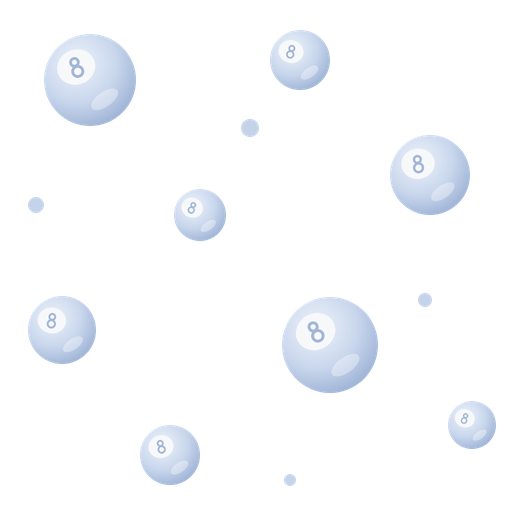
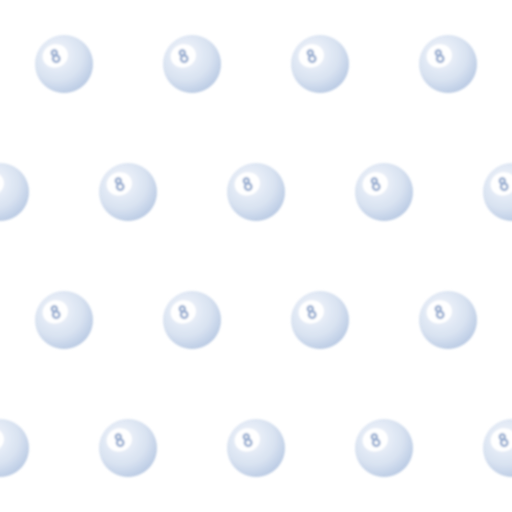
Panel pattern: small soft 8 balls on an even staggered grid, turned alike and slightly blurred, so it sits in the background

diff --git a/tools/gen_ui_art.py b/tools/gen_ui_art.py
@@ -922,59 +922,50 @@ ICONS = {
 # ---------------------------------------------------------------------------------------
 
 
-def pattern_ball(cx, cy, r, tilt, n):
-    """One soft 8 ball for the panel pattern: a shaded body, its number disc toward the upper
-    left and turned by `tilt` degrees, a small 8 and a shine. In its own pale blues and white,
-    so the disc and shine stay lighter than the ball; Config only sets how faint."""
-    g = f"pb{n}"
+def pattern_ball(cx, cy, r, tilt):
+    """One soft 8 ball for the panel pattern: a gently shaded body, its number disc toward the
+    upper left turned by `tilt` degrees, and a small 8. Pale blues and white, low in contrast,
+    so it stays in the background; Config only sets how faint."""
     dx, dy = -0.3 * r, -0.28 * r  # the disc sits up and left, as if the ball has rolled
     return (
-        f'<radialGradient id="{g}" cx="0.36" cy="0.32" r="0.72">'
-        '<stop offset="0" stop-color="#EEF3FB"/><stop offset="0.6" stop-color="#C8D6EC"/>'
-        '<stop offset="1" stop-color="#9FB4D6"/></radialGradient>'
-        f'<circle cx="{cx}" cy="{cy}" r="{r}" fill="url(#{g})"/>'
+        f'<circle cx="{cx}" cy="{cy}" r="{r}" fill="url(#patternBall)"/>'
         f'<g transform="translate({cx + dx:.1f} {cy + dy:.1f}) rotate({tilt})">'
-        f'<ellipse rx="{r * 0.42:.1f}" ry="{r * 0.38:.1f}" fill="#F7F8FA"/>'
+        f'<ellipse rx="{r * 0.44:.1f}" ry="{r * 0.4:.1f}" fill="#FFFFFF"/>'
         # The 8: two small stacked rings.
-        f'<circle cy="{-r * 0.11:.1f}" r="{r * 0.085:.1f}" fill="none" stroke="#A3B6D6" stroke-width="{r * 0.06:.1f}"/>'
-        f'<circle cy="{r * 0.1:.1f}" r="{r * 0.11:.1f}" fill="none" stroke="#A3B6D6" stroke-width="{r * 0.06:.1f}"/>'
+        f'<circle cy="{-r * 0.11:.1f}" r="{r * 0.085:.1f}" fill="none" stroke="#9CB1D3" stroke-width="{r * 0.09:.1f}"/>'
+        f'<circle cy="{r * 0.1:.1f}" r="{r * 0.11:.1f}" fill="none" stroke="#9CB1D3" stroke-width="{r * 0.09:.1f}"/>'
         "</g>"
-        f'<ellipse cx="{cx + r * 0.32:.1f}" cy="{cy + r * 0.42:.1f}" rx="{r * 0.34:.1f}" ry="{r * 0.16:.1f}" '
-        f'fill="#FFFFFF" opacity="0.35" transform="rotate(-35 {cx + r * 0.32:.1f} {cy + r * 0.42:.1f})"/>'
     )
 
 
 def art_pattern():
-    """The panel pattern tile, after the designer's reference (2026-09-27): soft 8 balls of a
-    few sizes, each turned its own way, and a few small bubbles, scattered so the repeat does
-    not show. Drawn in colour on clear; Config.UI.Kit sets how faint."""
+    """The panel pattern tile, after the designer's reference (2026-09-27): soft 8 balls of one
+    size on an even staggered grid, all turned the same way, slightly blurred so they sit in
+    the background like wallpaper. Drawn in colour on clear; Config.UI.Kit sets how faint."""
     size = 512
-    balls = [  # x, y, radius, tilt
-        (90, 80, 46, -20),
-        (300, 60, 30, 15),
-        (430, 175, 40, -8),
-        (200, 215, 26, 22),
-        (62, 330, 34, 8),
-        (330, 345, 48, -28),
-        (170, 455, 30, -14),
-        (472, 425, 24, 18),
-    ]
-    bubbles = [(250, 128, 9), (425, 300, 7), (36, 205, 8), (290, 480, 6)]
+    step = size / 4  # four balls across and four rows down per tile
+    r = 29
+    tilt = -18  # every disc turned alike, so the grid reads as one calm pattern
     parts = []
-    n = 0
-    for x, y, r, tilt in balls:
-        # Draw each at every wrap-around position so the tile repeats seamlessly.
-        for dx in (-size, 0, size):
-            for dy in (-size, 0, size):
-                cx, cy = x + dx, y + dy
-                if -r <= cx <= size + r and -r <= cy <= size + r:
-                    parts.append(pattern_ball(cx, cy, r, tilt, n))
-                    n += 1
-    for x, y, r in bubbles:
-        parts.append(f'<circle cx="{x}" cy="{y}" r="{r}" fill="#C4D3EA"/>')
+    for row in range(4):
+        for col in range(4):
+            x = step / 2 + col * step + (step / 2 if row % 2 else 0)  # odd rows sit half a step over
+            y = step / 2 + row * step
+            # Draw each at every wrap-around position so the tile repeats seamlessly.
+            for dx in (-size, 0, size):
+                for dy in (-size, 0, size):
+                    cx, cy = x + dx, y + dy
+                    if -r - 8 <= cx <= size + r + 8 and -r - 8 <= cy <= size + r + 8:
+                        parts.append(pattern_ball(cx, cy, r, tilt))
     return (
         f'<svg xmlns="http://www.w3.org/2000/svg" width="{size}" height="{size}" '
-        f'viewBox="0 0 {size} {size}">' + "".join(parts) + "</svg>"
+        f'viewBox="0 0 {size} {size}"><defs>'
+        '<radialGradient id="patternBall" cx="0.38" cy="0.34" r="0.7">'
+        '<stop offset="0" stop-color="#F3F6FC"/><stop offset="0.65" stop-color="#D8E2F1"/>'
+        '<stop offset="1" stop-color="#BACBE4"/></radialGradient>'
+        '<filter id="soft" x="-5%" y="-5%" width="110%" height="110%">'
+        '<feGaussianBlur stdDeviation="1.1"/></filter></defs>'
+        '<g filter="url(#soft)">' + "".join(parts) + "</g></svg>"
     )
 
 

diff --git a/docs/UI_STYLE.md b/docs/UI_STYLE.md
@@ -24,9 +24,10 @@ screen, a popup).
   cartoon (2026-09-25).
 - **A soft white-to-pale-blue fade and a soft drop shadow**, so panels look puffy, not flat.
 - **A faint pattern of soft 8 balls** over every panel (designer, 2026-09-27, after a
-  reference; it was tiny flat pool balls): pale-blue shaded balls of a few sizes, each turned
-  its own way with its number disc toward the top left, and a few small bubbles, scattered so
-  the repeat does not show. Faint: felt more than seen. Every panel gets it from the kit's
+  reference; it was tiny flat pool balls): small pale-blue shaded 8 balls, all one size, on
+  an even staggered grid, every number disc toward the top left and turned alike, slightly
+  blurred so they sit in the background like wallpaper (the designer found a scattered mix of
+  sizes too busy and too big). Faint: felt more than seen. Every panel gets it from the kit's
   card (`HudParts.card`), so new screens have it too.
 - **Popups never darken the screen** (designer, 2026-09-27, said for the dialogs and again for
   the rank screens): no dim behind a popup, a dialog, the end-of-match screen or NEW RANK!, because

diff --git a/docs/STATUS.md b/docs/STATUS.md
@@ -15,8 +15,9 @@
   shoot (sized from the hole on screen, no caption), so it never covers the jaws; choosing
   keeps the 44 px rings. Verified in Studio on a far side pocket (a small ring in the hole)
   and a near corner (a 53 px ring in the hole), and the six 44 px rings while choosing.
-- **Also built:** every panel's pattern is now faint soft 8 balls of a few sizes, each turned
-  its own way (after the designer's reference), instead of tiny dots; one new tile image
+- **Also built:** every panel's pattern is now faint soft 8 balls (after the designer's
+  reference), one small size on an even staggered grid, turned alike and slightly blurred,
+  instead of tiny dots; one new tile image
   (`tools/gen_ui_art.py pattern`), so every current and future panel has it. Checked on the
   roadmap and the rank and money pills.
 

diff --git a/docs/DECISIONS.md b/docs/DECISIONS.md
@@ -1531,3 +1531,5 @@ caps switch), leaving the plain tiled cloth; no new images needed.
 - 2026-09-27 (designer): the panel pattern is faint soft 8 balls of a few sizes, each turned
   its own way, after the designer's reference, instead of tiny flat pool balls; for every
   panel now and later (it comes from the kit's card).
+- 2026-09-27 (designer): the 8-ball pattern is one small size on an even staggered grid, all
+  turned alike and slightly blurred; the scattered mix of sizes was too big and busy.
